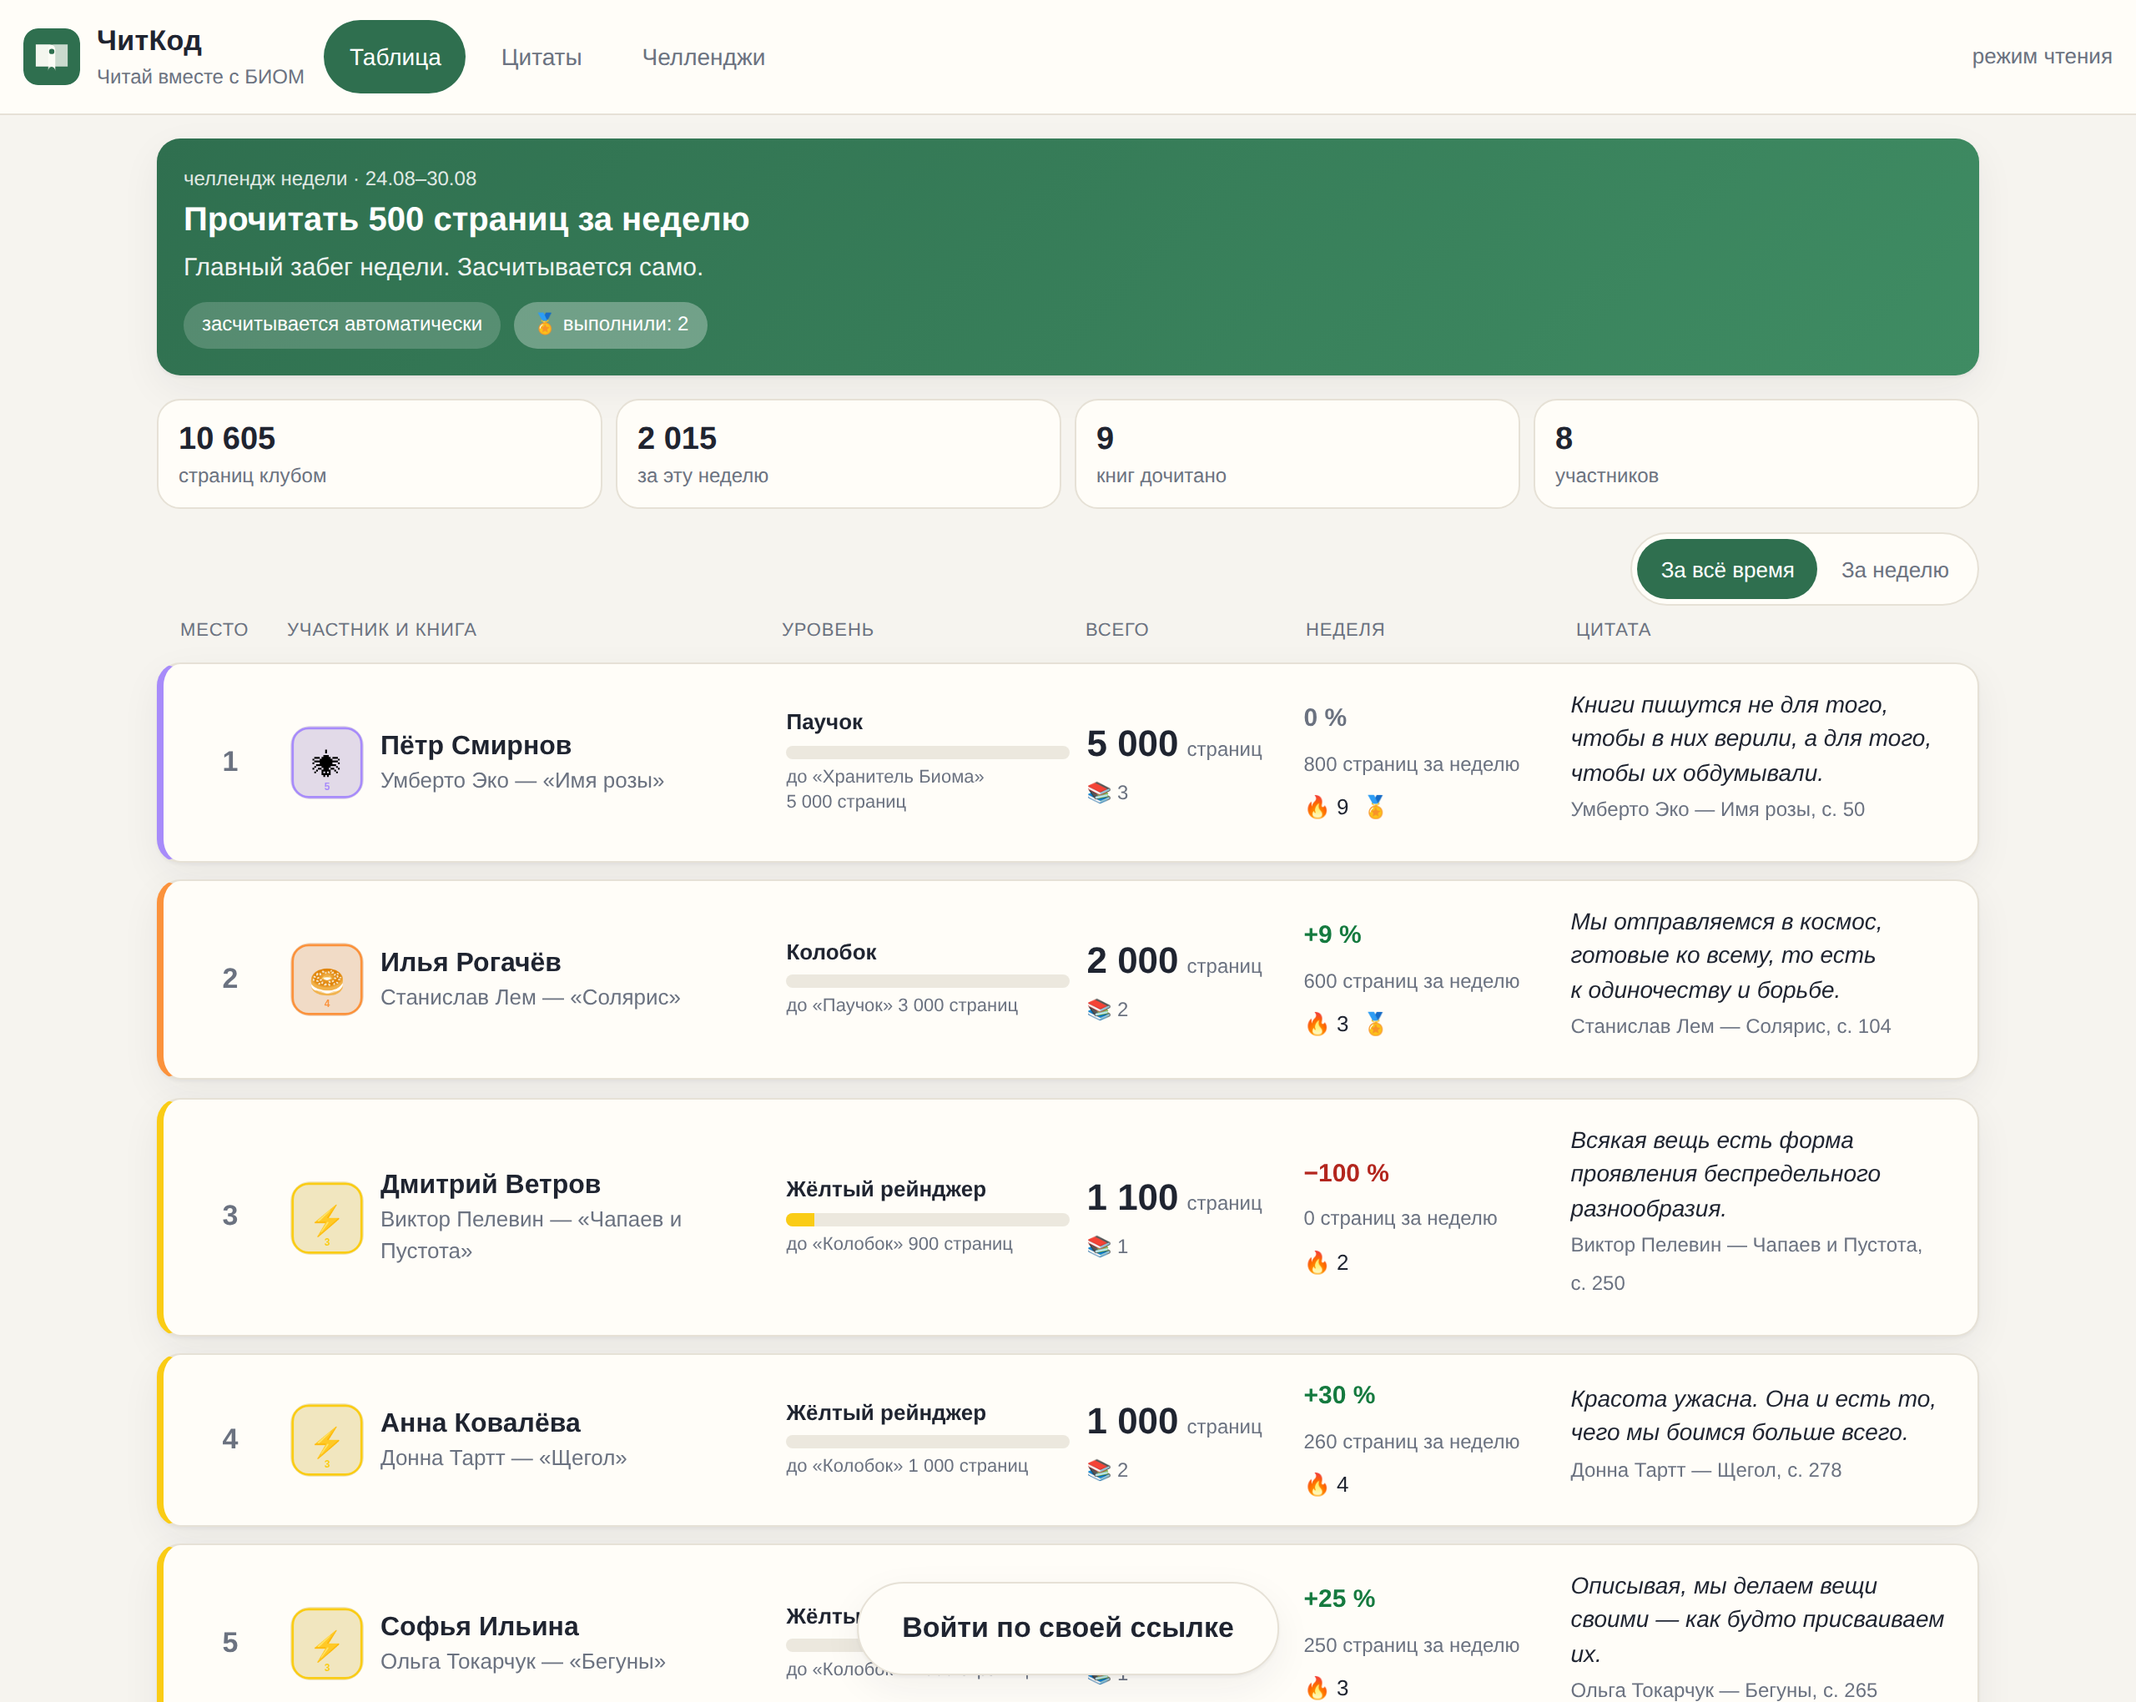
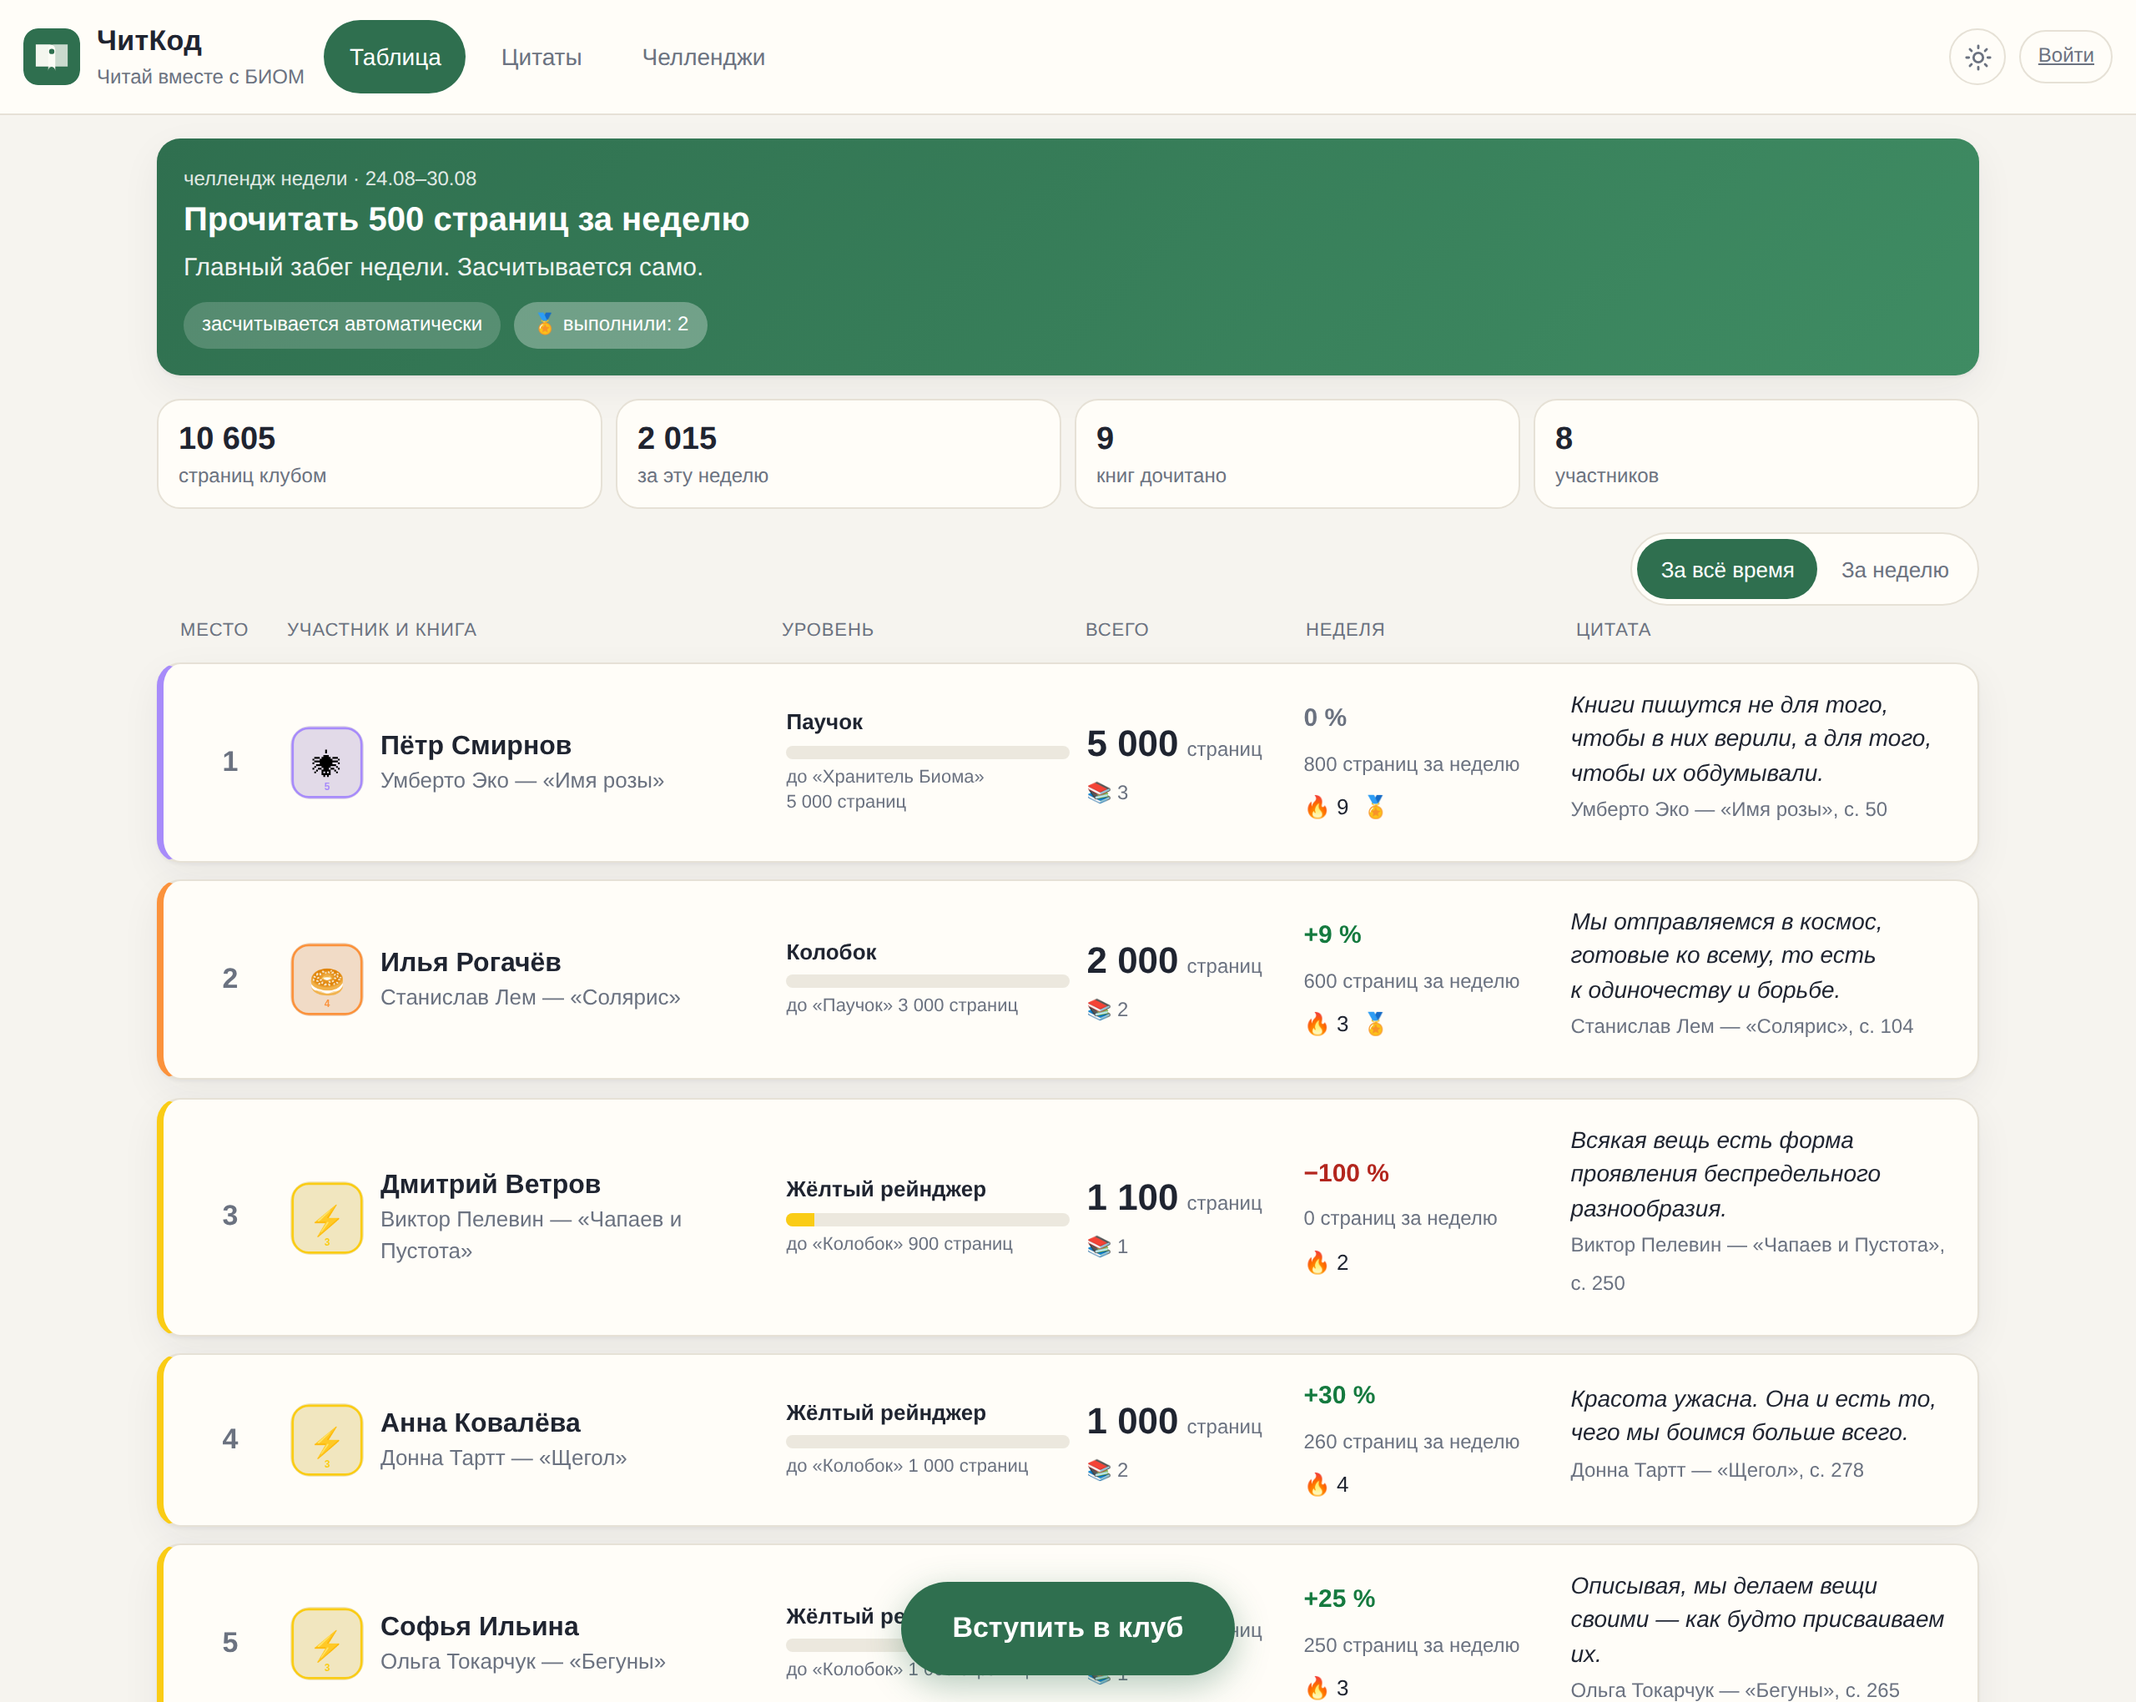
Скриншоты обеих тем на демо-данных
Claude-Session: https://claude.ai/code/session_017AANb2BLRA2bQAznez3pHB

diff --git a/docs/README.md b/docs/README.md
@@ -2,5 +2,8 @@
 
 Демо-данные из `flask seed`.
 
-- `screen-mobile.png` — экран 375 px
-- `screen-desktop.png` — 1280 px
+- `screen-mobile.png` — экран 375 px, светлая тема
+- `screen-mobile-dark.png` — тот же экран, тёмная тема
+- `screen-desktop.png` — 1280 px, светлая
+- `screen-desktop-dark.png` — 1280 px, тёмная
+- `screen-quotes-dark.png` — стена цитат
